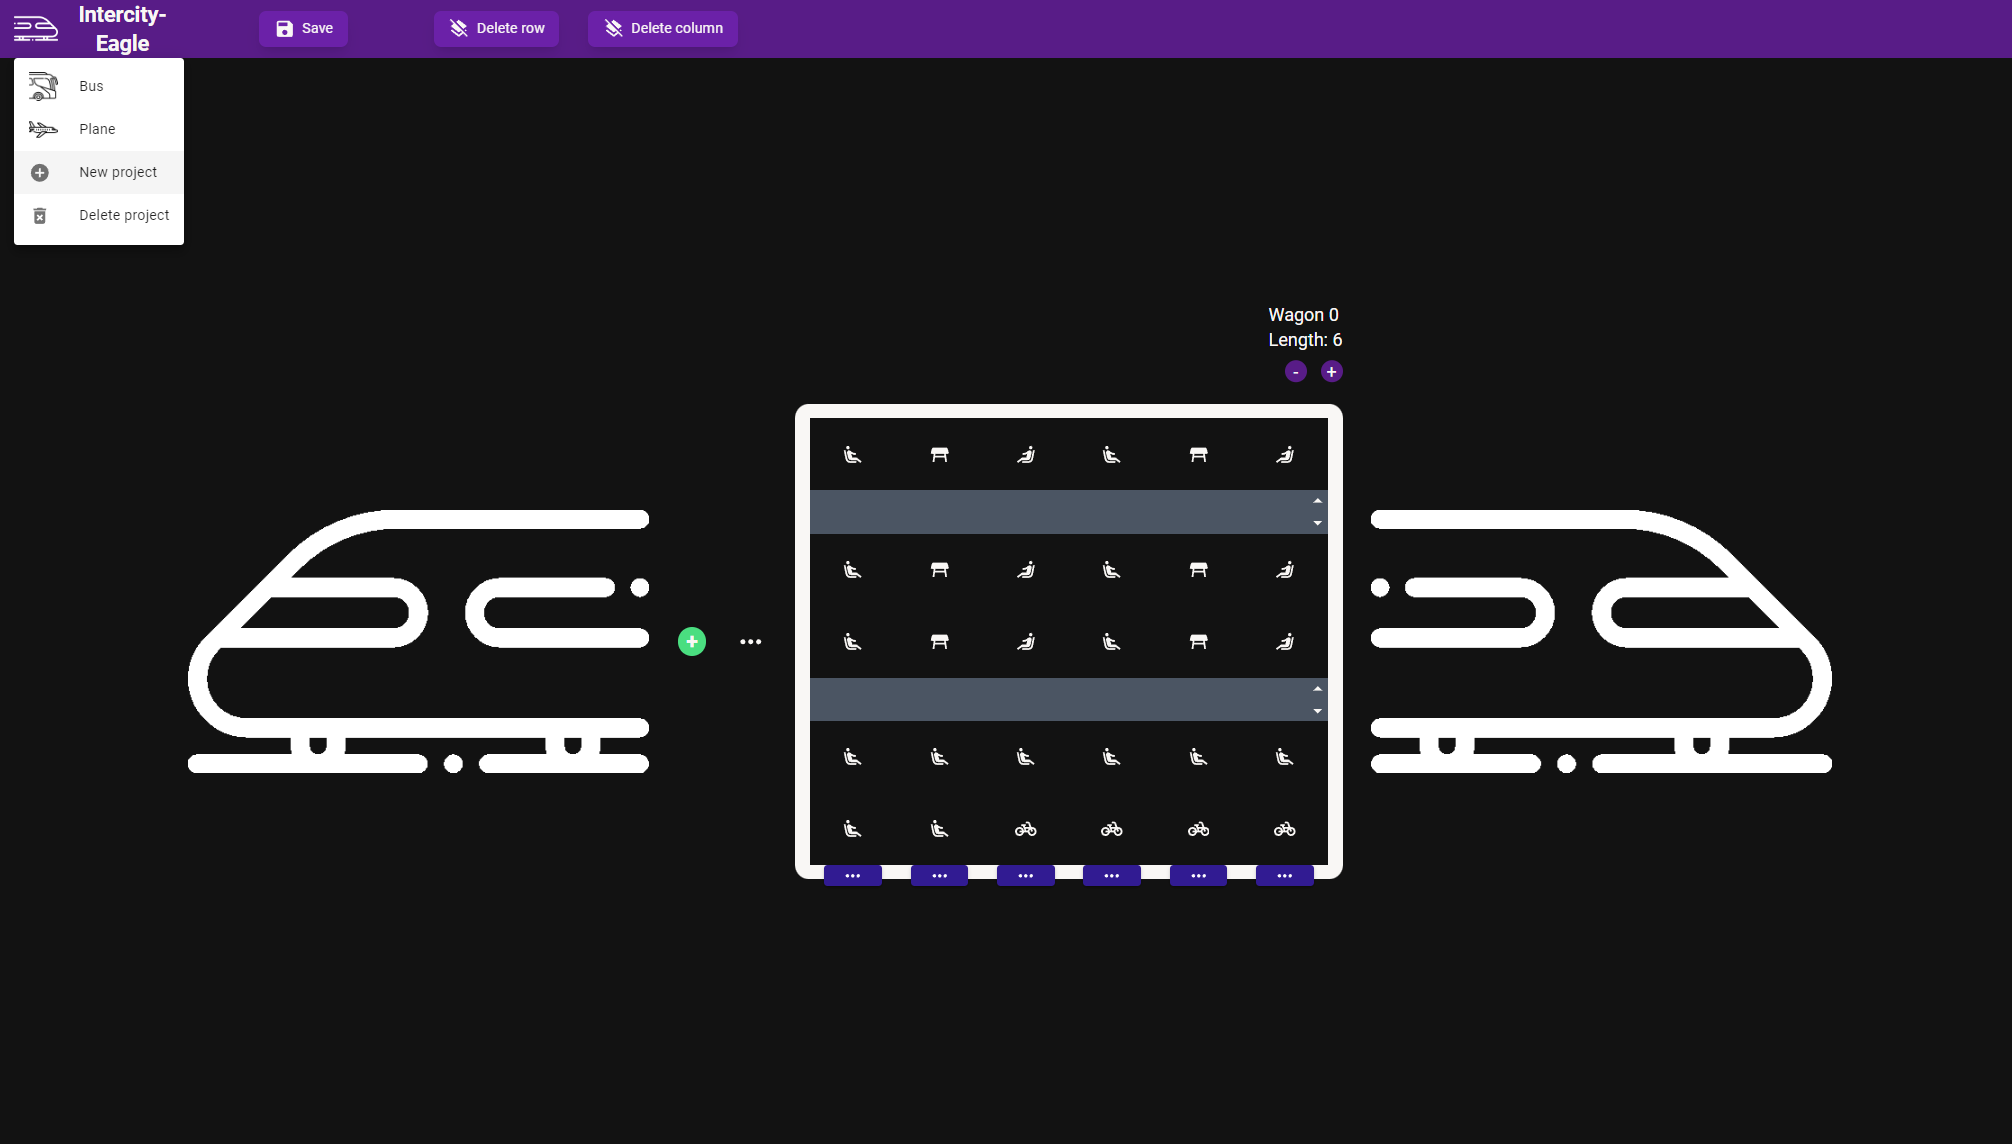
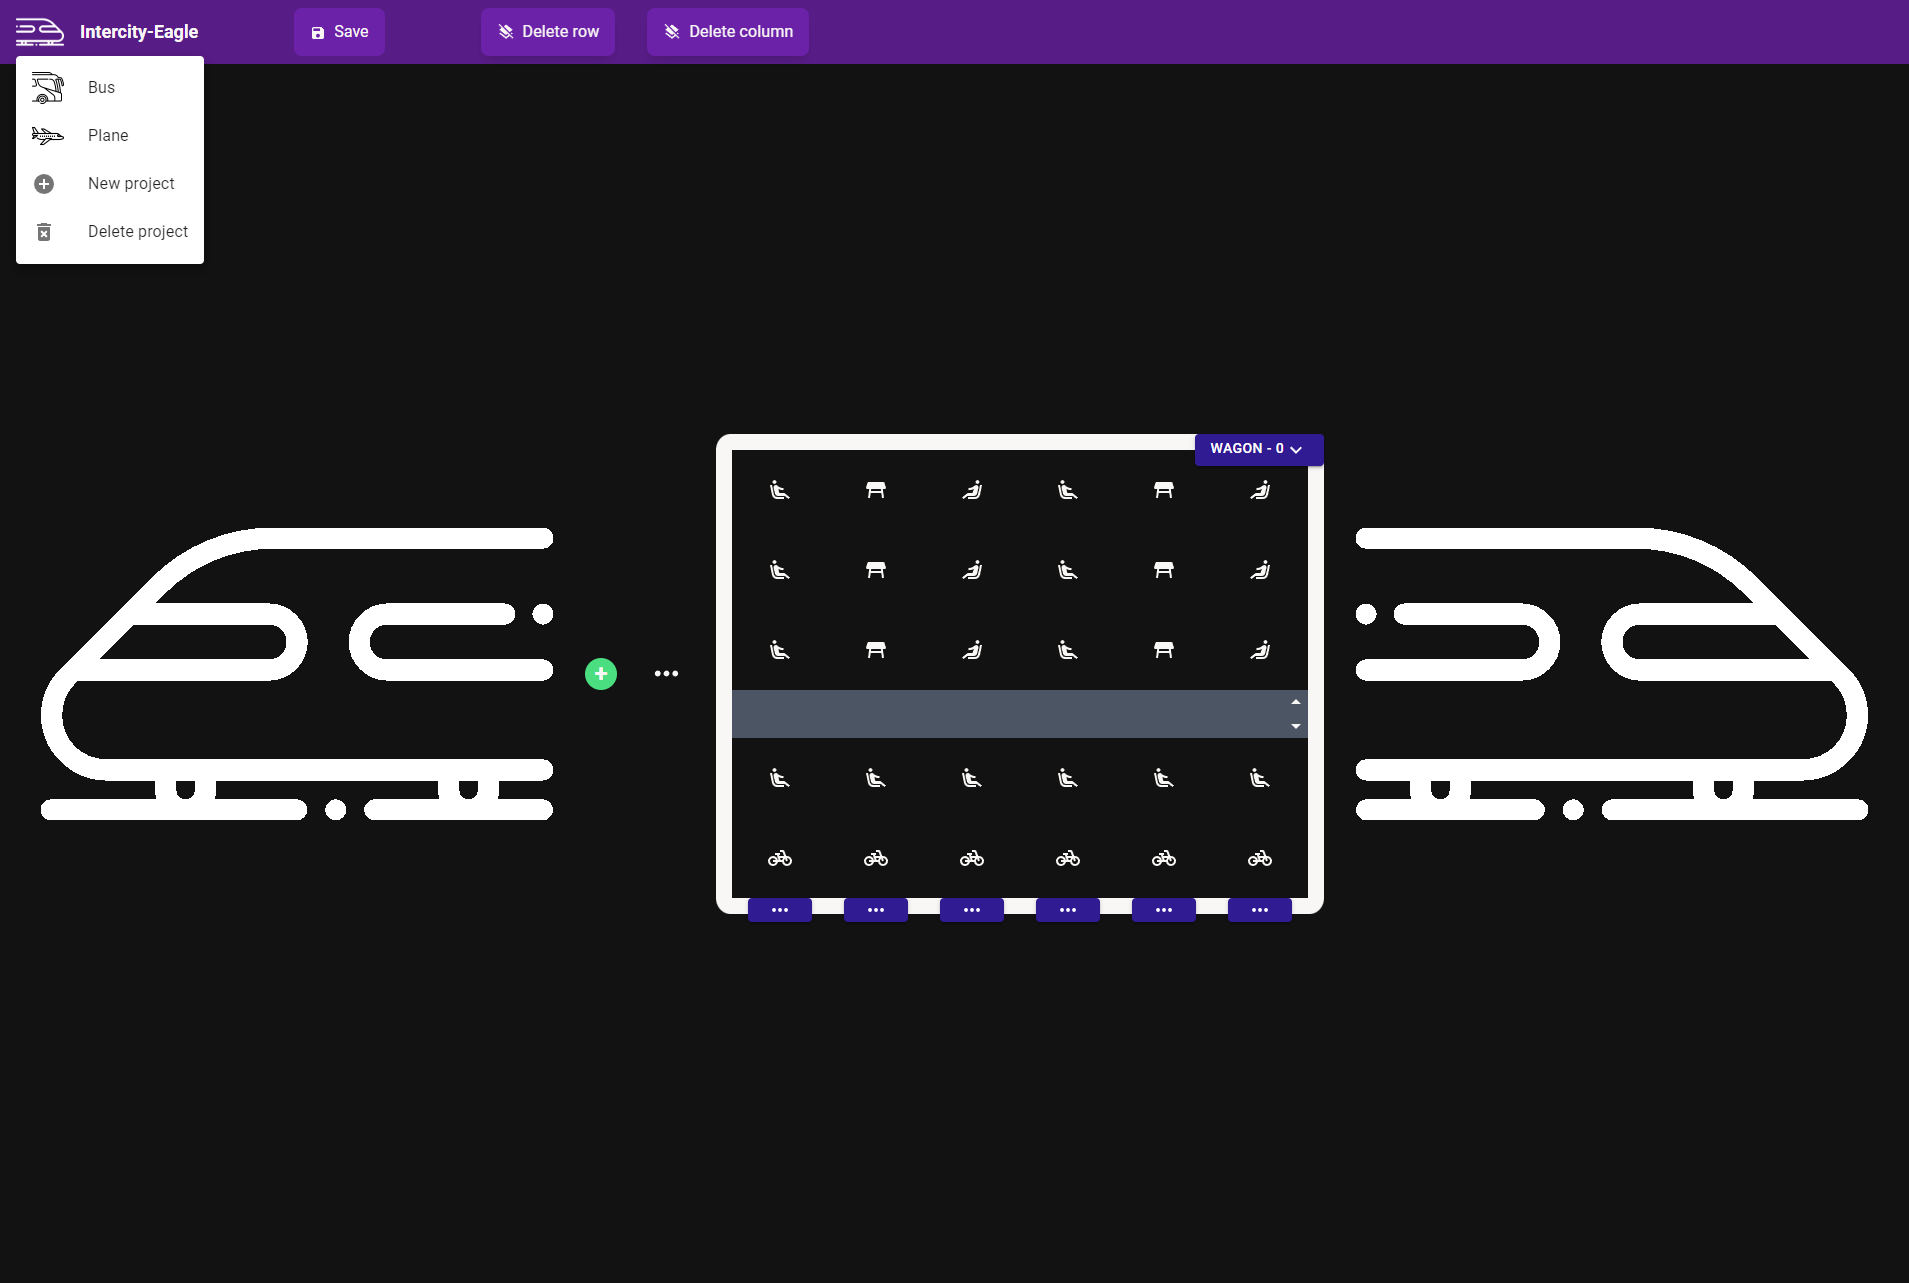
update README images

Changed region(s): [[0.0, 0.2753, 0.989, 0.7955], [0.0, 0.0, 0.4327, 0.2142]]

diff --git a/README.md b/README.md
@@ -2,6 +2,8 @@
 
 This is a vehicle drawing app. Create your fleet (and coming soon -  sell tickets for your commune system).
 
+You can access the live deployment of this project [here](https://rafalbodanka.github.io/vehicle-drawer/).
+
 ## Table of Contents
 
 - [Installation](#installation)
@@ -32,6 +34,8 @@ Manage your projects.
 
 ![Start view](./assets/start-view.png)
 
+![Start view mobile](./assets/start-view-mobile.png)
+
 Choose vehicle.
 
 ![Choose vehicle view](./assets/pick-vehicle-view.png)
@@ -50,6 +54,10 @@ Use delete row and columns modes to delete them.
 
 ![Delete column view](./assets/delete-column-view.png)
 
+Edit wagons.
+
+![Edit wagon view](./assets/edit-wagon-view.png)
+
 Edit columns.
 
 ![Edit column view](./assets/edit-column-view.png)
@@ -57,6 +65,8 @@ Edit columns.
 Navigate the project.
 
 ![Project navbar view](./assets/navbar-open-view.png)
+
+![Project navbar view mobile](./assets/navbar-open-view-mobile.png)
 
 Save your project (saved in local storage).
 
